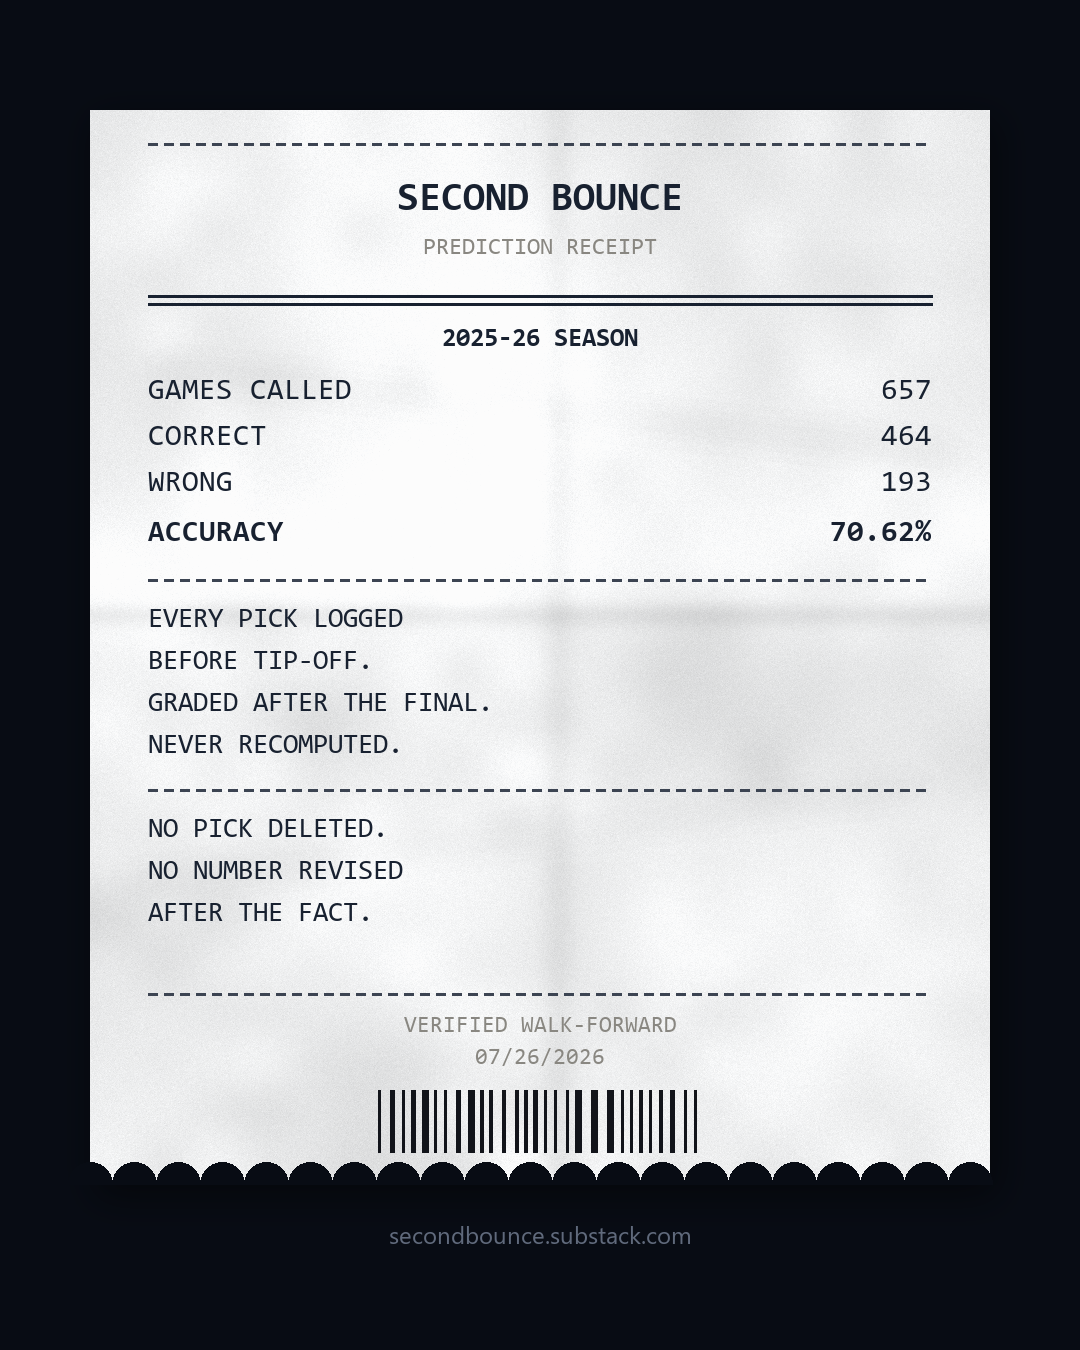
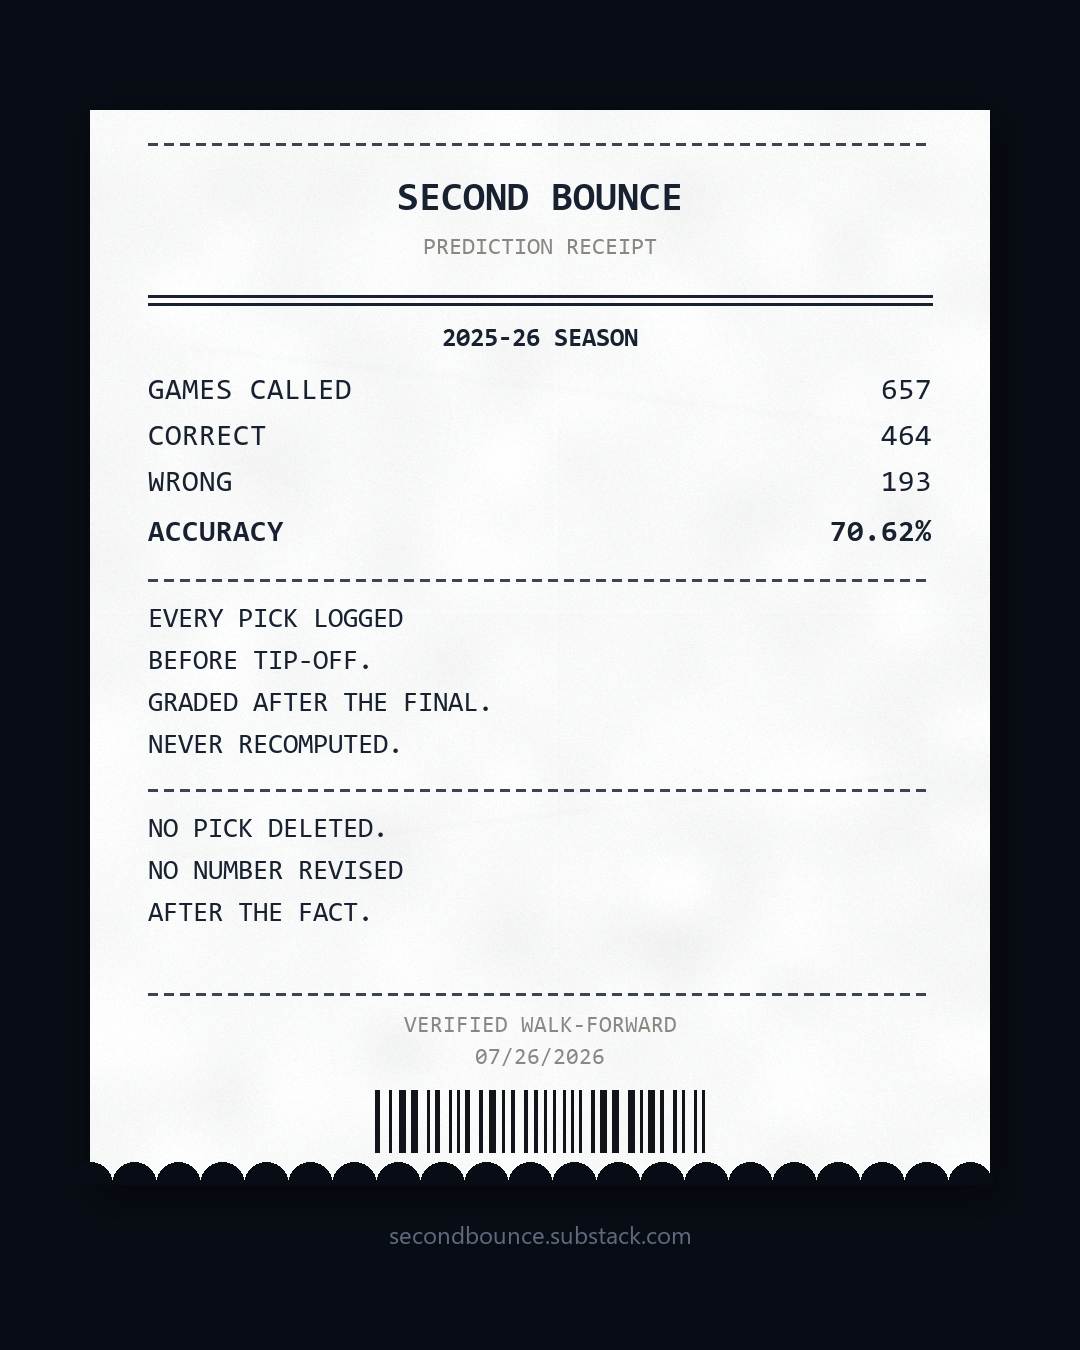
Receipts: restore the quieter paper texture (Aaron preferred it)
Reverts the photoreal pass (uneven lighting, antisymmetric fold shading, corner
vignette, paper std-dev 8.3) back to the previous quieter stock (std-dev 2.7). It
read as dirty at full size, and clean paper is the better call for a format whose
job is legibility: dark monospace on light stock.

Everything else from that round is kept, since it was structure rather than surface:
the adaptive slip length, centred short slips, the fit logic that tightens row pitch
and sacrifices slogan lines before ever dropping a game, scallops, barcode and the
nightly type.

The `--texture` dial survives the revert and now scales the restored stock, so the
look can be nudged (0 flat, 1 default, 1.8 = std-dev 4.5) without another rewrite.

diff --git a/scripts/generate_receipt_note.py b/scripts/generate_receipt_note.py
@@ -79,67 +79,58 @@ def abbr(name: str) -> str:
 
 # ------------------------------------------------------------------ texture
 def paper(w: int, h: int, seed: int = 7, strength: float = 1.0) -> Image.Image:
-    """Photographed thermal paper.
+    """Thermal-paper stock: soft cloudy mottling, a cross fold, fine grain.
 
-    Retuned 2026-07-26 after Aaron could not make the first version out. The lesson:
-    fine grain is invisible once the feed scales the image down. What survives is
-    BROAD luminance variation, so the weight is on large-scale uneven lighting, fold
-    shading and a vignette, with grain as a top note rather than the main event.
+    Built from low-resolution noise upscaled smoothly (that is what gives the broad
+    cloudy variation of real paper, rather than uniform static), then a little
+    high-frequency grain on top, then fold seams.
 
-    Layers, coarse to fine:
-      1. uneven lighting   very low-res noise, upscaled: the cloudy look of real stock
-      2. mottling          medium-res noise
-      3. fold              antisymmetric shading either side of the seam (dark on one
-                           side, lifted on the other, which is how a fold catches
-                           light), plus a narrow crease line
-      4. creases           two soft diagonals
-      5. vignette          corners fall off, as in a photo
-      6. grain             fine noise
-    `strength` scales every amplitude, so it can be dialled from the CLI.
+    RESTORED 2026-07-26 at Aaron's request. A heavier, photoreal version (uneven
+    lighting, antisymmetric fold shading, corner vignette) was tried and rejected as
+    too dirty; this quieter stock is the house look. `strength` scales every
+    amplitude, so it can still be nudged from the CLI without another rewrite.
     """
     rng = np.random.default_rng(seed)
     s = strength
 
-    def upscaled(ny, nx, amp):
-        low = rng.normal(0, 1, (ny, nx))
-        img = Image.fromarray(((low - low.min()) / np.ptp(low) * 255).astype(np.uint8))
-        a = np.array(img.resize((w, h), Image.BICUBIC), dtype=np.float32)
-        return (a - a.mean()) / 128.0 * amp
+    # broad mottling: 16x20 noise stretched to full size
+    low = rng.normal(0, 1, (20, 16))
+    mottle = np.array(Image.fromarray(
+        ((low - low.min()) / np.ptp(low) * 255).astype(np.uint8)
+    ).resize((w, h), Image.BICUBIC), dtype=np.float32)
+    mottle = (mottle - mottle.mean()) / 255.0 * 13.0 * s  # +-13 levels, subtle
 
-    field = upscaled(6, 5, 17.0 * s)          # uneven lighting
-    field += upscaled(22, 18, 11.0 * s)       # mottling
+    grain = rng.normal(0, 2.1 * s, (h, w))
 
-    # fold: antisymmetric profile d*exp(-d^2), darkening one side and lifting the other
-    yy = np.arange(h, dtype=np.float32)[:, None]
-    xx = np.arange(w, dtype=np.float32)[None, :]
-    dy = (yy - h * 0.47) / (h * 0.10)
-    dx = (xx - w * 0.52) / (w * 0.16)
-    field += (-15.0 * s) * dy * np.exp(-dy * dy)
-    field += (-11.0 * s) * dx * np.exp(-dx * dx)
+    base = 250.0 + mottle + grain
+    # very slightly cool paper, like the reference photo
+    arr = np.stack([base - 1.0, base - 0.4, base], axis=2)
 
-    # the crease itself: a narrow dark line along each fold
-    field += (-16.0 * s) * np.exp(-((dy * 9.0) ** 2))
-    field += (-11.0 * s) * np.exp(-((dx * 9.0) ** 2))
+    # cross fold: one horizontal seam, one vertical, each a dark line with a
+    # lighter lift beside it, blurred. Real folds catch light on one side.
+    fold_y, fold_x = int(h * 0.47), int(w * 0.52)
+    seam = np.zeros((h, w), dtype=np.float32)
+    for off, val in ((-2, 5.0), (-1, 3.0), (0, -7.0), (1, -3.0), (2, 3.5)):
+        val *= s
+        yy, xx = fold_y + off, fold_x + off
+        if 0 <= yy < h:
+            seam[yy, :] += val
+        if 0 <= xx < w:
+            seam[:, xx] += val
+    seam = np.array(Image.fromarray(
+        np.clip(seam + 128, 0, 255).astype(np.uint8)).filter(
+        ImageFilter.GaussianBlur(1.6)), dtype=np.float32) - 128.0
+    arr += seam[:, :, None]
 
-    # two soft diagonal creases
-    for (x0, y0, x1, y1), amp in (
-        ((int(w * .08), int(h * .24), int(w * .96), int(h * .32)), 13.0),
-        ((int(w * .04), int(h * .72), int(w * .92), int(h * .63)), 10.0),
-    ):
+    # a couple of faint diagonal creases so it does not read as a flat gradient
+    for (x0, y0, x1, y1) in ((int(w * .1), int(h * .22), int(w * .95), int(h * .30)),
+                             (int(w * .05), int(h * .70), int(w * .9), int(h * .62))):
         cre = Image.new("L", (w, h), 128)
-        ImageDraw.Draw(cre).line([x0, y0, x1, y1], fill=88, width=4)
-        blurred = np.array(cre.filter(ImageFilter.GaussianBlur(14.0)), dtype=np.float32)
-        field += (blurred - 128.0) * (amp * s / 6.0)
+        ImageDraw.Draw(cre).line([x0, y0, x1, y1], fill=121, width=3)
+        arr += (np.array(cre.filter(ImageFilter.GaussianBlur(3.0)),
+                         dtype=np.float32) - 128.0)[:, :, None] * 0.9 * s
 
-    # vignette: normalised radius, corners pulled down
-    r = np.sqrt(((xx / w - 0.5) * 2) ** 2 + ((yy / h - 0.5) * 2) ** 2) / 1.4142
-    field += (-13.0 * s) * (r ** 2)
-
-    field += rng.normal(0, 3.4 * s, (h, w))   # grain
-
-    base = 247.0 + field
-    arr = np.stack([base - 1.6, base - 0.7, base], axis=2)   # faintly cool stock
-    return Image.fromarray(np.clip(arr, 0, 252).astype(np.uint8), "RGB")
+    return Image.fromarray(np.clip(arr, 0, 255).astype(np.uint8), "RGB")
 
 
 def barcode(d: ImageDraw.ImageDraw, cx: int, y: int, seed_text: str,
